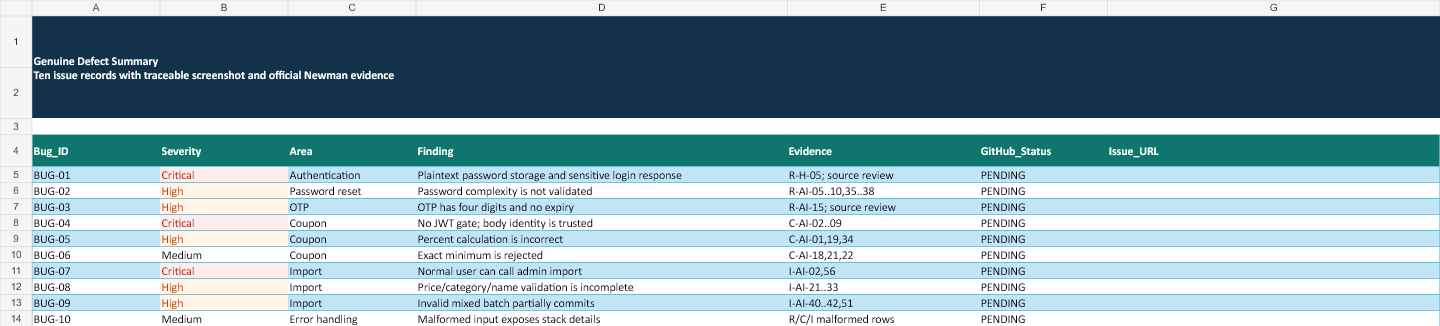
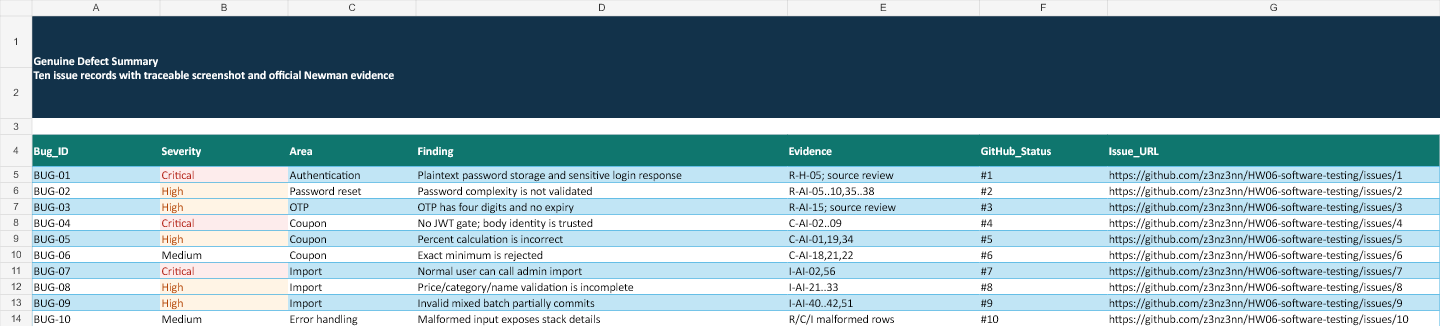
docs: publish ten verified defect issues

diff --git a/reports/bug-reports.md b/reports/bug-reports.md
@@ -27,7 +27,7 @@ The recorded assertion fails consistently in the isolated official local run. Se
 
 ### GitHub evidence
 
-- Issue URL: **PENDING_BROWSER_PUBLICATION**
+- Issue URL: [https://github.com/z3nz3nn/HW06-software-testing/issues/1](https://github.com/z3nz3nn/HW06-software-testing/issues/1)
 - Screenshot: [evidence/screenshots/bug-01-login-secret-leak.jpg](../evidence/screenshots/bug-01-login-secret-leak.jpg)
 - Evidence status: the screenshot is genuine Chrome-captured Newman or GitHub source evidence and is linked from the issue body.
 
@@ -56,7 +56,7 @@ The recorded assertion fails consistently in the isolated official local run. Se
 
 ### GitHub evidence
 
-- Issue URL: **PENDING_BROWSER_PUBLICATION**
+- Issue URL: [https://github.com/z3nz3nn/HW06-software-testing/issues/2](https://github.com/z3nz3nn/HW06-software-testing/issues/2)
 - Screenshot: [evidence/screenshots/bug-02-reset-password-complexity.jpg](../evidence/screenshots/bug-02-reset-password-complexity.jpg)
 - Evidence status: the screenshot is genuine Chrome-captured Newman or GitHub source evidence and is linked from the issue body.
 
@@ -85,7 +85,7 @@ The recorded assertion fails consistently in the isolated official local run. Se
 
 ### GitHub evidence
 
-- Issue URL: **PENDING_BROWSER_PUBLICATION**
+- Issue URL: [https://github.com/z3nz3nn/HW06-software-testing/issues/3](https://github.com/z3nz3nn/HW06-software-testing/issues/3)
 - Screenshot: [evidence/screenshots/bug-03-weak-reset-token.jpg](../evidence/screenshots/bug-03-weak-reset-token.jpg)
 - Evidence status: the screenshot is genuine Chrome-captured Newman or GitHub source evidence and is linked from the issue body.
 
@@ -114,7 +114,7 @@ The recorded assertion fails consistently in the isolated official local run. Se
 
 ### GitHub evidence
 
-- Issue URL: **PENDING_BROWSER_PUBLICATION**
+- Issue URL: [https://github.com/z3nz3nn/HW06-software-testing/issues/4](https://github.com/z3nz3nn/HW06-software-testing/issues/4)
 - Screenshot: [evidence/screenshots/bug-04-coupon-missing-auth.jpg](../evidence/screenshots/bug-04-coupon-missing-auth.jpg)
 - Evidence status: the screenshot is genuine Chrome-captured Newman or GitHub source evidence and is linked from the issue body.
 
@@ -143,7 +143,7 @@ The recorded assertion fails consistently in the isolated official local run. Se
 
 ### GitHub evidence
 
-- Issue URL: **PENDING_BROWSER_PUBLICATION**
+- Issue URL: [https://github.com/z3nz3nn/HW06-software-testing/issues/5](https://github.com/z3nz3nn/HW06-software-testing/issues/5)
 - Screenshot: [evidence/screenshots/bug-05-coupon-percentage-formula.jpg](../evidence/screenshots/bug-05-coupon-percentage-formula.jpg)
 - Evidence status: the screenshot is genuine Chrome-captured Newman or GitHub source evidence and is linked from the issue body.
 
@@ -172,7 +172,7 @@ The recorded assertion fails consistently in the isolated official local run. Se
 
 ### GitHub evidence
 
-- Issue URL: **PENDING_BROWSER_PUBLICATION**
+- Issue URL: [https://github.com/z3nz3nn/HW06-software-testing/issues/6](https://github.com/z3nz3nn/HW06-software-testing/issues/6)
 - Screenshot: [evidence/screenshots/bug-06-coupon-threshold-boundary.jpg](../evidence/screenshots/bug-06-coupon-threshold-boundary.jpg)
 - Evidence status: the screenshot is genuine Chrome-captured Newman or GitHub source evidence and is linked from the issue body.
 
@@ -201,7 +201,7 @@ The recorded assertion fails consistently in the isolated official local run. Se
 
 ### GitHub evidence
 
-- Issue URL: **PENDING_BROWSER_PUBLICATION**
+- Issue URL: [https://github.com/z3nz3nn/HW06-software-testing/issues/7](https://github.com/z3nz3nn/HW06-software-testing/issues/7)
 - Screenshot: [evidence/screenshots/bug-07-import-missing-role-check.jpg](../evidence/screenshots/bug-07-import-missing-role-check.jpg)
 - Evidence status: the screenshot is genuine Chrome-captured Newman or GitHub source evidence and is linked from the issue body.
 
@@ -230,7 +230,7 @@ The recorded assertion fails consistently in the isolated official local run. Se
 
 ### GitHub evidence
 
-- Issue URL: **PENDING_BROWSER_PUBLICATION**
+- Issue URL: [https://github.com/z3nz3nn/HW06-software-testing/issues/8](https://github.com/z3nz3nn/HW06-software-testing/issues/8)
 - Screenshot: [evidence/screenshots/bug-08-import-incomplete-validation.jpg](../evidence/screenshots/bug-08-import-incomplete-validation.jpg)
 - Evidence status: the screenshot is genuine Chrome-captured Newman or GitHub source evidence and is linked from the issue body.
 
@@ -259,7 +259,7 @@ The recorded assertion fails consistently in the isolated official local run. Se
 
 ### GitHub evidence
 
-- Issue URL: **PENDING_BROWSER_PUBLICATION**
+- Issue URL: [https://github.com/z3nz3nn/HW06-software-testing/issues/9](https://github.com/z3nz3nn/HW06-software-testing/issues/9)
 - Screenshot: [evidence/screenshots/bug-09-import-non-atomic.jpg](../evidence/screenshots/bug-09-import-non-atomic.jpg)
 - Evidence status: the screenshot is genuine Chrome-captured Newman or GitHub source evidence and is linked from the issue body.
 
@@ -288,6 +288,6 @@ The recorded assertion fails consistently in the isolated official local run. Se
 
 ### GitHub evidence
 
-- Issue URL: **PENDING_BROWSER_PUBLICATION**
+- Issue URL: [https://github.com/z3nz3nn/HW06-software-testing/issues/10](https://github.com/z3nz3nn/HW06-software-testing/issues/10)
 - Screenshot: [evidence/screenshots/bug-10-stack-leak.jpg](../evidence/screenshots/bug-10-stack-leak.jpg)
 - Evidence status: the screenshot is genuine Chrome-captured Newman or GitHub source evidence and is linked from the issue body.

diff --git a/README.md b/README.md
@@ -8,7 +8,7 @@ This repository contains the complete, auditable testing pipeline for three ESho
 | B | FR-09 Apply coupon | `POST /api/apply-coupon` |
 | C | FR-16 Import products | `POST /api/admin/import-products` |
 
-Key artifacts: [main report](reports/main-report.md), [AI audit](reports/ai-audit.md), [Excel test cases](outputs/hw06/HW06_Test_Cases.xlsx), [bug reports](reports/bug-reports.md), [CI/CD report](reports/ci-cd-report.md), and [video script](reports/video-script.md).
+Key artifacts: [main report](reports/main-report.md), [AI audit](reports/ai-audit.md), [Excel test cases](outputs/hw06/HW06_Test_Cases.xlsx), [bug reports](reports/bug-reports.md), [10 GitHub Issues](reports/github-issues.json), [CI/CD report](reports/ci-cd-report.md), and [video script](reports/video-script.md).
 
 CI evidence: [all-pass demonstration](https://github.com/z3nz3nn/HW06-software-testing/actions/runs/32405131238) and [one-failing-case mutation](https://github.com/z3nz3nn/HW06-software-testing/actions/runs/32405318145).
 
@@ -20,7 +20,7 @@ CI evidence: [all-pass demonstration](https://github.com/z3nz3nn/HW06-software-t
 
 ## Current status
 
-The evidence-backed pipeline is complete through the official local Newman execution with `X-Student-Id: 23127373`. The repository remains private because changing it to Public is the final, separately confirmed action. Personal row review, the real console screenshot, self-drawn diagram, video, self-assessed score, ZIP inspection, and Moodle submission remain student-only gates.
+The evidence-backed pipeline is complete through the official local Newman execution with `X-Student-Id: 23127373` and publication of ten GitHub Issues. The repository remains private because changing it to Public is the final, separately confirmed action. Personal row review, the real console screenshot, self-drawn diagram, video, self-assessed score, ZIP inspection, and Moodle submission remain student-only gates.
 
 ## Test summary (official local run)
 

diff --git a/reports/manual-checklist.md b/reports/manual-checklist.md
@@ -8,7 +8,7 @@ Do not submit until every unchecked item is completed personally.
 - [ ] Take the required real console screenshot showing the pre-request log/header `X-Student-Id: 23127373`. The official run is complete, but this anti-cheat screenshot must be captured/recreated manually and must not be AI-generated.
 - [ ] Open each latest Newman HTML report and spot-check hostname `127.0.0.1:3000`, case IDs, failures, and timestamps.
 - [ ] Approve making the GitHub repository public, then verify no secrets/personal email are committed.
-- [ ] Create the ten GitHub Issues; link the real, matching screenshot in each and preserve URLs in `reports/github-issues.json` and `reports/bug-reports.md`.
+- [x] Create the ten GitHub Issues; link the real, matching screenshot in each and preserve URLs in `reports/github-issues.json` and `reports/bug-reports.md`.
 - [ ] Trigger/verify both CI demonstration commits; paste Actions links and screenshots into `reports/ci-cd-report.md`.
 - [ ] Draw the Agent Skill diagram yourself from the design checklist. Export it as PNG and keep the editable source. Do not use an AI-generated diagram.
 - [ ] Read the prompts/outputs in `reports/ai-audit.md`; confirm they match the Gemini chat and that no private email remains.
